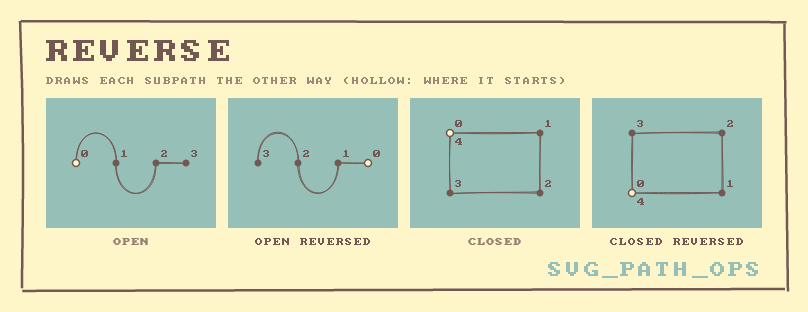
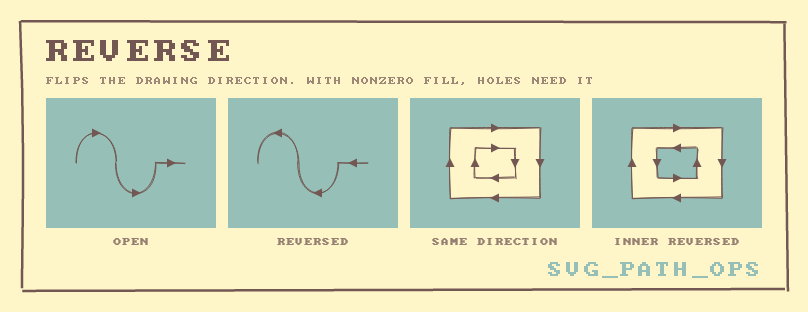
Show why reverse matters in its gallery image and docs
The reverse image numbered the end points of a path before and after,
which made the reader track numbers to see the change and did not show
why a direction matters at all.

- Mark the drawing direction with arrowheads halfway along each segment
- Add a frame whose inner square cuts a hole under the nonzero fill rule
  only once it is reversed, filled with tiny-skia's winding rule
- Explain in the docs where the direction matters: holes, pen plotter
  order, stroke animations, markers and text on a path

diff --git a/rough_tiny_skia/examples/path_ops_gallery.rs b/rough_tiny_skia/examples/path_ops_gallery.rs
@@ -232,22 +232,7 @@ fn draw_solid(canvas: &mut Canvas, path: &str) {
 
 /// Strokes `path` with an exact dashed line, for originals and guides.
 fn draw_dashed(canvas: &mut Canvas, path: &str, color: (u8, u8, u8), width: f32) {
-    let mut builder = PathBuilder::new();
-    let segments: Vec<PathSegment> = PathParser::from(path).map(Result::unwrap).collect();
-    let normalized: Vec<PathSegment> =
-        svg_path_ops::normalize(svg_path_ops::absolutize(segments.iter())).collect();
-    for segment in normalized {
-        match segment {
-            PathSegment::MoveTo { x, y, .. } => builder.move_to(x as f32, y as f32),
-            PathSegment::LineTo { x, y, .. } => builder.line_to(x as f32, y as f32),
-            PathSegment::CurveTo { x1, y1, x2, y2, x, y, .. } => builder.cubic_to(
-                x1 as f32, y1 as f32, x2 as f32, y2 as f32, x as f32, y as f32,
-            ),
-            PathSegment::ClosePath { .. } => builder.close(),
-            _ => unreachable!("normalize only emits M, L, C and Z"),
-        }
-    }
-    let Some(tiny_path) = builder.finish() else {
+    let Some(tiny_path) = tiny_path(path) else {
         return;
     };
     let mut paint = Paint::default();
@@ -260,6 +245,123 @@ fn draw_dashed(canvas: &mut Canvas, path: &str, color: (u8, u8, u8), width: f32)
     canvas
         .pixmap
         .stroke_path(&tiny_path, &paint, &stroke, Transform::identity(), None);
+}
+
+/// Absolute move, line, cubic curve and close segments drawing `path`.
+fn normalized(path: &str) -> Vec<PathSegment> {
+    let segments = parse(path);
+    svg_path_ops::normalize(svg_path_ops::absolutize(segments.iter())).collect()
+}
+
+/// Converts SVG path data to an exact tiny-skia path.
+fn tiny_path(path: &str) -> Option<tiny_skia::Path> {
+    let mut builder = PathBuilder::new();
+    for segment in normalized(path) {
+        match segment {
+            PathSegment::MoveTo { x, y, .. } => builder.move_to(x as f32, y as f32),
+            PathSegment::LineTo { x, y, .. } => builder.line_to(x as f32, y as f32),
+            PathSegment::CurveTo { x1, y1, x2, y2, x, y, .. } => builder.cubic_to(
+                x1 as f32, y1 as f32, x2 as f32, y2 as f32, x as f32, y as f32,
+            ),
+            PathSegment::ClosePath { .. } => builder.close(),
+            _ => unreachable!("normalize only emits M, L, C and Z"),
+        }
+    }
+    builder.finish()
+}
+
+/// Fills `path` with the nonzero rule, the SVG default: a region is filled
+/// unless the contours around it wind in opposite directions.
+fn fill_nonzero(canvas: &mut Canvas, path: &str) {
+    let Some(tiny_path) = tiny_path(path) else {
+        return;
+    };
+    let mut paint = Paint::default();
+    paint.set_color_rgba8(CREAM.0, CREAM.1, CREAM.2, 255);
+    canvas.pixmap.fill_path(
+        &tiny_path,
+        &paint,
+        tiny_skia::FillRule::Winding,
+        Transform::identity(),
+        None,
+    );
+}
+
+/// The point halfway along each segment of `path`, with the direction the
+/// path is drawn in there.
+fn segment_midpoints(path: &str) -> Vec<((f64, f64), (f64, f64))> {
+    let mut midpoints = Vec::new();
+    let (mut current, mut subpath_start) = ((0.0, 0.0), (0.0, 0.0));
+    let line = |from: (f64, f64), to: (f64, f64)| {
+        (
+            ((from.0 + to.0) / 2.0, (from.1 + to.1) / 2.0),
+            (to.0 - from.0, to.1 - from.1),
+        )
+    };
+    for segment in normalized(path) {
+        match segment {
+            PathSegment::MoveTo { x, y, .. } => {
+                current = (x, y);
+                subpath_start = current;
+            }
+            PathSegment::LineTo { x, y, .. } => {
+                midpoints.push(line(current, (x, y)));
+                current = (x, y);
+            }
+            PathSegment::CurveTo { x1, y1, x2, y2, x, y, .. } => {
+                // A cubic curve at t = 0.5 and its derivative there
+                let (p0, p1, p2, p3) = (current, (x1, y1), (x2, y2), (x, y));
+                let at = |a: f64, b: f64, c: f64, d: f64| (a + 3.0 * b + 3.0 * c + d) / 8.0;
+                let slope = |a: f64, b: f64, c: f64, d: f64| 0.75 * (c + d - a - b);
+                midpoints.push((
+                    (at(p0.0, p1.0, p2.0, p3.0), at(p0.1, p1.1, p2.1, p3.1)),
+                    (slope(p0.0, p1.0, p2.0, p3.0), slope(p0.1, p1.1, p2.1, p3.1)),
+                ));
+                current = p3;
+            }
+            PathSegment::ClosePath { .. } => {
+                if current != subpath_start {
+                    midpoints.push(line(current, subpath_start));
+                }
+                current = subpath_start;
+            }
+            _ => unreachable!("normalize only emits M, L, C and Z"),
+        }
+    }
+    midpoints
+}
+
+/// Draws an arrowhead halfway along each segment of `path`, pointing the way
+/// the path is drawn.
+fn draw_direction(canvas: &mut Canvas, path: &str) {
+    for ((x, y), (dx, dy)) in segment_midpoints(path) {
+        let length = dx.hypot(dy);
+        if length == 0.0 {
+            continue;
+        }
+        let (ux, uy) = (dx / length, dy / length);
+        let tip = (x + ux * 5.0, y + uy * 5.0);
+        let base = (x - ux * 4.0, y - uy * 4.0);
+        let side = (-uy * 4.5, ux * 4.5);
+
+        let mut builder = PathBuilder::new();
+        builder.move_to(tip.0 as f32, tip.1 as f32);
+        builder.line_to((base.0 + side.0) as f32, (base.1 + side.1) as f32);
+        builder.line_to((base.0 - side.0) as f32, (base.1 - side.1) as f32);
+        builder.close();
+        let Some(arrow) = builder.finish() else {
+            continue;
+        };
+        let mut paint = Paint::default();
+        paint.set_color_rgba8(BROWN.0, BROWN.1, BROWN.2, 255);
+        canvas.pixmap.fill_path(
+            &arrow,
+            &paint,
+            tiny_skia::FillRule::Winding,
+            Transform::identity(),
+            None,
+        );
+    }
 }
 
 /// Draws a dot; hollow dots are outlined and filled with the canvas color.
@@ -595,30 +697,49 @@ fn draw_numbered_ends(canvas: &mut Canvas, path: &str, hollow_start: bool) {
 }
 
 fn reverse_strip(out_dir: &Path) {
-    let open = "M 0 40 C 0 0 40 0 40 40 S 80 80 80 40 L 110 40";
-    let closed = "M 0 0 L 60 0 L 60 40 L 0 40 Z";
-    let cases = [
-        (open, false, "open"),
-        (open, true, "open reversed"),
-        (closed, false, "closed"),
-        (closed, true, "closed reversed"),
-    ];
     let mut canvas = Canvas::new(
         LAYOUT,
         "reverse",
-        "draws each subpath the other way (hollow: where it starts)",
-        cases.len(),
+        "flips the drawing direction. with nonzero fill, holes need it",
+        4,
     );
-    for (i, (path, reversed, label)) in cases.iter().enumerate() {
+
+    // An open path, drawn forward and reversed
+    let open = "M 0 40 C 0 0 40 0 40 40 S 80 80 80 40 L 110 40";
+    for (i, reversed, label) in [(0, false, "open"), (1, true, "reversed")] {
         let center = cell_center(canvas.cell(i));
-        let mut shape = fit(path, (center.0 - 55.0, center.1 - 30.0, 110.0, 60.0));
-        if *reversed {
+        let mut shape = fit(open, (center.0 - 55.0, center.1 - 30.0, 110.0, 60.0));
+        if reversed {
             shape = write_path(reverse(parse(&shape)), &WriteOptions::default());
         }
         draw_outline(&mut canvas, &shape);
-        draw_numbered_ends(&mut canvas, &shape, true);
+        draw_direction(&mut canvas, &shape);
         canvas.label(i, label);
     }
+
+    // A frame: the inner square only cuts a hole once it runs the other way
+    let outer = "M 0 0 L 90 0 L 90 70 L 0 70 Z";
+    let inner = "M 25 20 L 65 20 L 65 50 L 25 50 Z";
+    for (i, reversed, label) in [(2, false, "same direction"), (3, true, "inner reversed")] {
+        let center = cell_center(canvas.cell(i));
+        let origin = (center.0 - 45.0, center.1 - 35.0);
+        let place = |path: &str| {
+            let mut transformer = PathTransformer::new(path.into());
+            transformer.translate(origin.0, origin.1);
+            transformer.to_string()
+        };
+        let mut hole = place(inner);
+        if reversed {
+            hole = write_path(reverse(parse(&hole)), &WriteOptions::default());
+        }
+        let frame = format!("{} {}", place(outer), hole);
+
+        fill_nonzero(&mut canvas, &frame);
+        draw_outline(&mut canvas, &frame);
+        draw_direction(&mut canvas, &frame);
+        canvas.label(i, label);
+    }
+
     canvas.save(out_dir, "reverse");
 }
 

diff --git a/svg_path_ops/src/lib.rs b/svg_path_ops/src/lib.rs
@@ -128,7 +128,11 @@
 //! ### Reversing a path
 //!
 //! [`reverse`] draws every subpath in the opposite direction, keeping
-//! relative segments relative and arcs as arcs:
+//! relative segments relative and arcs as arcs. The shape stays the same;
+//! the direction matters for holes under the default nonzero fill rule, for
+//! the order a pen plotter draws in, for stroke animations and for where
+//! markers and text on a path go. Below, the inner square only cuts a hole
+//! once it is reversed:
 //!
 //! ![reverse](https://raw.githubusercontent.com/orhanbalci/rough-rs/main/svg_path_ops/assets/ops/reverse.png)
 //!

diff --git a/svg_path_ops/README.md b/svg_path_ops/README.md
@@ -128,7 +128,11 @@ assert_eq!(
 ### Reversing a path
 
 [`reverse`] draws every subpath in the opposite direction, keeping
-relative segments relative and arcs as arcs:
+relative segments relative and arcs as arcs. The shape stays the same;
+the direction matters for holes under the default nonzero fill rule, for
+the order a pen plotter draws in, for stroke animations and for where
+markers and text on a path go. Below, the inner square only cuts a hole
+once it is reversed:
 
 ![reverse](https://raw.githubusercontent.com/orhanbalci/rough-rs/main/svg_path_ops/assets/ops/reverse.png)
 
